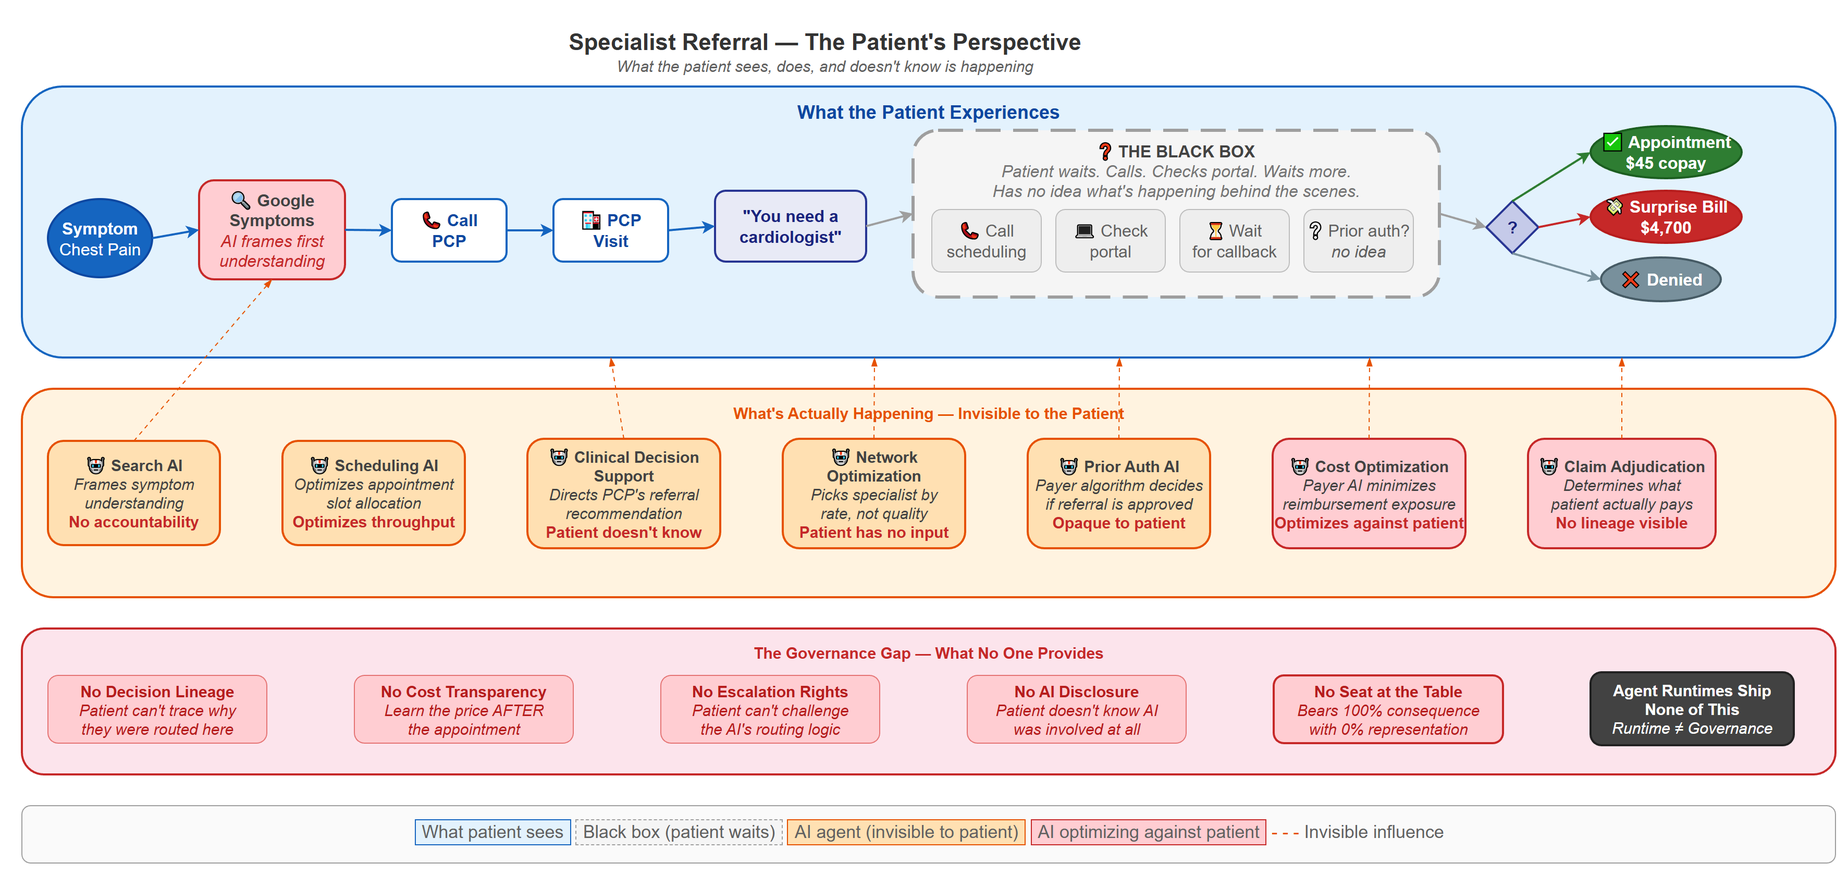
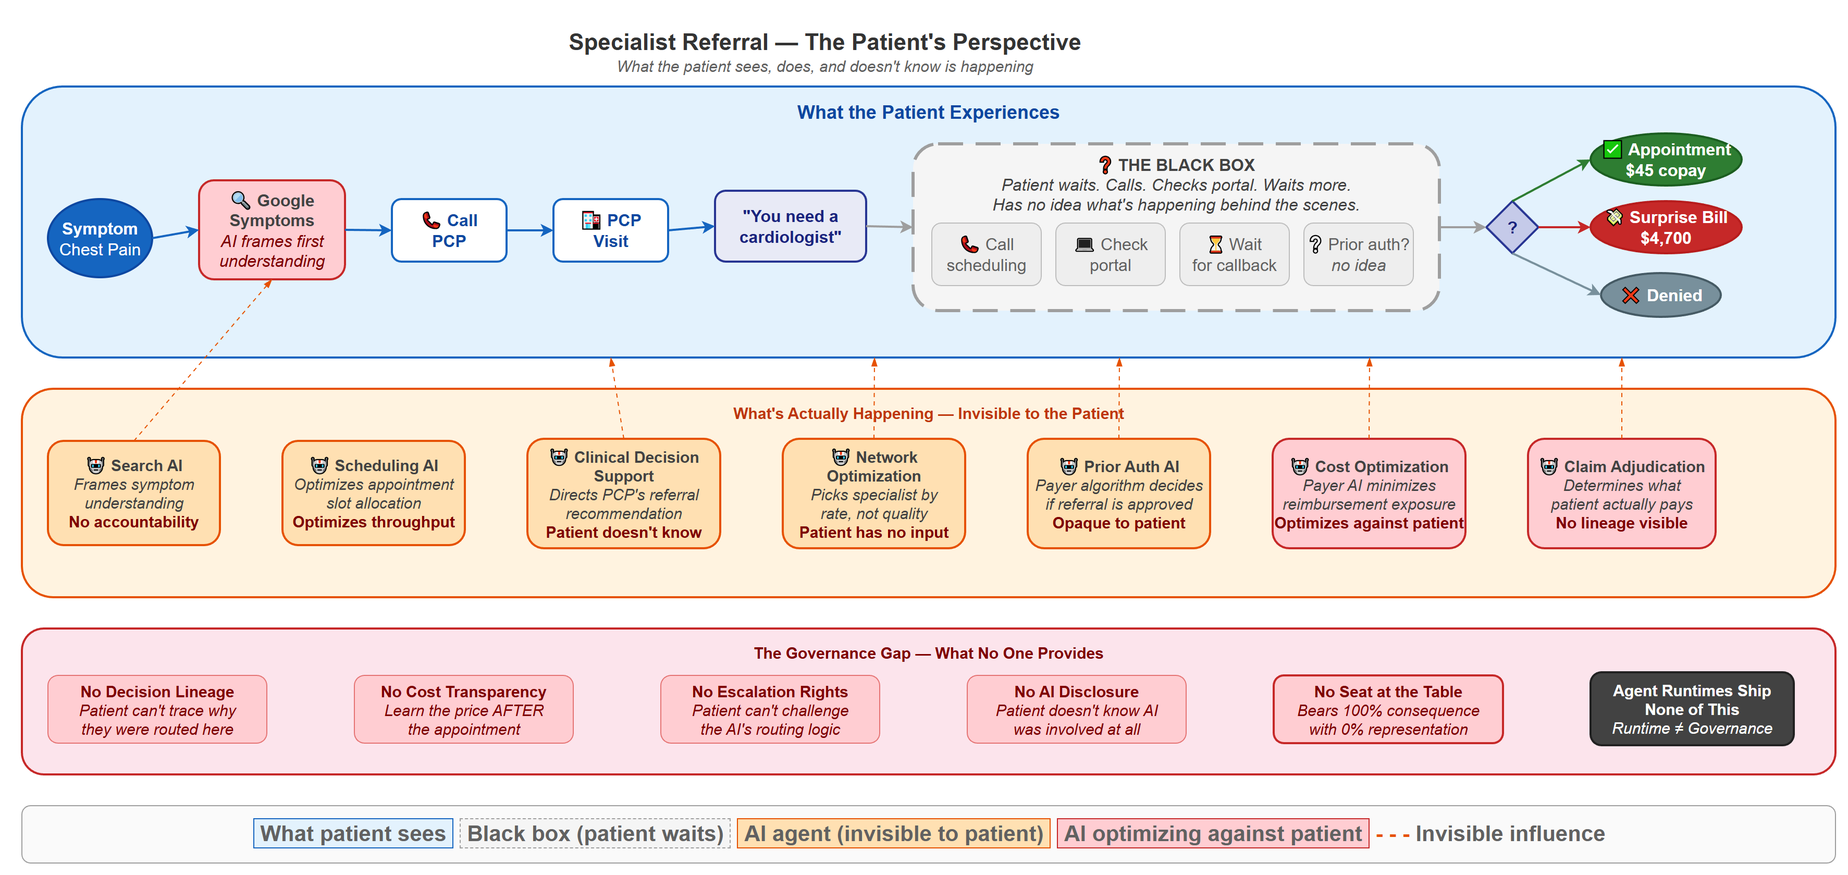
Update header image

diff --git a/docs/agentic/governance-gap.md b/docs/agentic/governance-gap.md
@@ -17,12 +17,6 @@ tags:
 
 ---
 
-![Specialist Referral — Network Navigation BPMN Model](../assets/images/network_navigation_agentic_sandwich.png)
-
-*Figure: The full BPMN 2.0 executable model for specialist referral network navigation — the "agentic sandwich" pattern. Left: a deterministic coverage gate the agent cannot override. Center: an ad-hoc subprocess where five AI agents and one human escalation path navigate the network autonomously. Right: a deterministic routing gate that settles the referral into one of three outcomes. This is what the process looks like when it's engineered for governance. Most deployed systems skip the model entirely.*
-
----
-
 ## When the Agent Gets It Wrong, the Patient Gets the Bill
 
 A patient's primary care physician orders a referral to a cardiologist. Between that order and the patient sitting in the specialist's office, six parties, three regulatory layers, and a maze of negotiated rates, benefit designs, and prior authorization requirements determine where that patient goes — and what they'll pay.
@@ -39,6 +33,20 @@ That's the governance gap. And every enterprise deploying autonomous agents toda
 
 ---
 
+## The Patient's Perspective
+
+Before the architecture, the experience. The governance gap doesn't live in diagrams — it lives in what happens to the person caught inside the process.
+
+![Specialist Referral — The Patient's Perspective](../assets/images/patient_referral_journey.png)
+
+*Figure: What the patient sees, does, and doesn't know is happening. The top layer (blue) is the patient's visible journey — symptom through black-box waiting to outcome. The middle layer (orange) shows the seven AI agents operating invisibly on the patient's referral. The bottom layer (red) names the governance gaps that leave the patient without recourse. Note the three possible outcomes: a \$45 copay, a \$4,700 surprise bill, or outright denial — and the patient has no visibility into which AI decisions determined their path.*
+
+The patient's experience is defined by what they *can't* see. They Google symptoms (an AI frames their understanding before they ever call the doctor). They get a referral ("you need a cardiologist"). Then they enter the **black box** — calling scheduling lines, checking portals, waiting for callbacks, with no idea whether prior authorization has been requested, approved, or denied. Behind that black box, seven AI agents are making decisions about their care, their cost, and their access. Two of those agents — Cost Optimization and Claim Adjudication — are explicitly optimizing *against* the patient's financial interest. The patient has no seat at the table, no escalation rights, and no AI disclosure.
+
+The patient bears 100% of the financial consequence and has 0% visibility into the AI decisions shaping their outcome. The party with the most at stake has the least information. Companion papers examine this same referral from the provider's perspective and the insurance company's perspective — each reveals a different set of AI touchpoints and a different set of governance questions that no current agent runtime answers.
+
+---
+
 ## The Patient's Journey
 
 The governance gap isn't abstract. It plays out in the process below — a specialist referral network navigation that touches every insured American and that almost nobody understands. The domain and its failure modes are real (see Appendix); the governed architecture is illustrative — designed to show what should exist, not what does.
@@ -48,6 +56,10 @@ The governance gap isn't abstract. It plays out in the process below — a speci
 *Figure: A patient referral navigated through the "agentic sandwich" — deterministic gates (blue) bracket an autonomous reasoning zone (amber) where five AI agents and one human escalation path coordinate the navigation. Three outcomes emerge on the right: approved in-network (\$45 copay), out-of-network exception with mandatory cost disclosure, or denied with appeal rights. The governance gap lives inside the agentic zone — where AI agents make decisions that determine the patient's financial outcome, and no current architecture makes those decisions auditable.*
 
 ### The Process: What You're Looking At
+
+![Specialist Referral — Network Navigation BPMN Model](../assets/images/network_navigation_agentic_sandwich.png)
+
+*Figure: The full BPMN 2.0 executable model for specialist referral network navigation — the "agentic sandwich" pattern. Left: a deterministic coverage gate the agent cannot override. Center: an ad-hoc subprocess where five AI agents and one human escalation path navigate the network autonomously. Right: a deterministic routing gate that settles the referral into one of three outcomes. This is what the process looks like when it's engineered for governance. Most deployed systems skip the model entirely.*
 
 Reading left to right: the process starts at **Referral Order Received** from the PCP. It passes through a **Coverage & Eligibility Verification** gateway — a deterministic gate that checks whether the patient has active coverage, whether the referral type requires authorization, and whether the benefit design (HMO, PPO, EPO, tiered network) permits self-referral or mandates PCP gatekeeping. This is a hard constraint. No agent overrides it.
 
@@ -133,13 +145,9 @@ Orchestrator (Camunda Zeebe) creates job: "network-navigation-agent"
 
 ### Where the Governance Gap Hits
 
-The architecture above shows the governed version — what *should* happen. Here's what happens today, when the same referral runs on an agent runtime *without* that governance substrate:
+The architecture above shows the governed version — what *should* happen. Here's what happens today, when the same referral runs on an agent runtime *without* that governance substrate.
 
-**The agent recommends an out-of-network specialist because of shorter wait times.** The patient sees the specialist, gets a bill for \$4,700 instead of \$45. The agent had good reasoning — shorter wait, higher quality score — but it didn't trace the cost transparency decision through the patient's specific benefit design. No lineage. No audit trail. No evidence that the patient was informed of the cost differential before the appointment was booked.
-
-A state insurance commissioner asks: *"Was the patient informed of the out-of-network cost before the appointment?"*
-
-Without a governance substrate, the answer is a three-week forensic investigation through log files. With seven-layer semantic lineage, the answer is a three-second query:
+Return to the referral that opened this paper — the agent that recommended Dr. Chen because of shorter wait times and a higher quality score. The patient got a \$4,700 bill. No lineage. No audit trail. The commissioner asks: *"Was the patient informed?"* With seven-layer semantic lineage, the answer is a three-second query:
 
 - **Layer 1 (Instance):** Navigation completed 2026-03-28T14:22, recommended Dr. Chen (out-of-network)
 - **Layer 2 (Class):** Network Optimization activity class shows OON recommendations have 34% patient complaint rate vs 2% for in-network — pattern should have triggered escalation
@@ -152,20 +160,6 @@ Without a governance substrate, the answer is a three-week forensic investigatio
 Every layer present. Every question answered. The system *knows* it made a mistake — and more importantly, it knows *why*, which means the activity class gets updated and the next navigation won't repeat it.
 
 That's the difference between an agent runtime and a governed architecture. The runtime executed perfectly. The governance substrate would have caught the error before the patient ever walked into the wrong office.
-
----
-
-## The Patient's Perspective
-
-The process above describes the technical architecture. But the governance gap doesn't live in architecture diagrams — it lives in the experience of the person caught inside the process.
-
-![Specialist Referral — The Patient's Perspective](../assets/images/patient_referral_journey.png)
-
-*Figure: What the patient sees, does, and doesn't know is happening. The top layer (blue) is the patient's visible journey — symptom through black-box waiting to outcome. The middle layer (orange) shows the seven AI agents operating invisibly on the patient's referral. The bottom layer (red) names the governance gaps that leave the patient without recourse. Note the three possible outcomes: a \$45 copay, a \$4,700 surprise bill, or outright denial — and the patient has no visibility into which AI decisions determined their path.*
-
-The patient's experience is defined by what they *can't* see. They Google symptoms (an AI frames their understanding before they ever call the doctor). They get a referral ("you need a cardiologist"). Then they enter the **black box** — calling scheduling lines, checking portals, waiting for callbacks, with no idea whether prior authorization has been requested, approved, or denied. Behind that black box, seven AI agents are making decisions about their care, their cost, and their access. Two of those agents — Cost Optimization and Claim Adjudication — are explicitly optimizing *against* the patient's financial interest. The patient has no seat at the table, no escalation rights, and no AI disclosure.
-
-The patient bears 100% of the financial consequence and has 0% visibility into the AI decisions shaping their outcome. The party with the most at stake has the least information. Companion papers examine this same referral from the provider's perspective and the insurance company's perspective — each reveals a different set of AI touchpoints and a different set of governance questions that no current agent runtime answers.
 
 ---
 
@@ -199,29 +193,9 @@ Five agents worked this referral — Network Optimization, Cost Transparency, Pr
 
 ## The Three Values Worth Preserving — and How to Encode Them
 
-The patient's journey reveals a governance gap — but it also reveals capabilities worth keeping. Three things matter regardless of which runtime or vendor owns the agent layer. The question is whether they require human consultants at partner rates, or whether they can be encoded architecturally.
+The governance gap creates dependency on external consultants — pattern libraries, compliance framing, integration architecture — but that dependency is architectural, not inherent. Three capabilities currently delivered at partner rates can be encoded: domain pattern libraries become learned process intelligence, compliance gatekeeping dissolves under seven-layer semantic lineage, and proprietary integration accelerators yield to a [governed agentic mesh](../agentic/agentic-agency-and-workflows.md) built on standard protocols. One capability genuinely can't be automated: **organizational change sponsorship** — the executive coalition-building and political navigation that determines whether any architecture gets deployed. The governance gap is an *architecture* gap, not a change management gap. Both matter. They're different disciplines.
 
-### 1. Domain Pattern Libraries → Learned Process Intelligence
-
-Consulting firms accumulate patterns from dozens of engagements: "In banking, this integration approach works; in healthcare, that compliance path succeeds." This knowledge is real and valuable.
-
-**Architectural replacement:** The autonomous orchestration generation framework I've developed replaces static pattern libraries with *learned* process intelligence. The system doesn't need a consultant to say "this sequence works" — it discovers effective patterns through process mining, scores them through ML, and composes new orchestrations from the learned library. Every execution makes the library better.
-
-### 2. Security and Compliance Framing → Semantic Lineage and Auditability
-
-The consulting firm's compliance value is translating platform capability into regulatory permission. They tell the CISO what's safe. They tell legal what's auditable.
-
-**Architectural replacement:** Seven-layer semantic lineage makes every agent decision self-auditing. When the compliance question changes from "is this platform safe?" to "can I trace every decision this platform makes through seven layers of context?" — the consulting firm's gatekeeping role dissolves. Visibility destroys dependency on external interpreters.
-
-### 3. Integration Architecture → Governed Agentic Mesh
-
-Consultants design how AI connects to enterprise systems. This is real engineering work — but it's also where consultants build their stickiest IP.
-
-**Architectural replacement:** The [Agentic Mesh](../agentic/agentic-agency-and-workflows.md) architecture uses BPMN as the deterministic spine, standard protocols (MCP) as the operational interface layer, and semantic carriers to preserve business meaning across process boundaries. The integration architecture isn't proprietary IP locked in a consultant's accelerator — it's an open, governed fabric the enterprise owns.
-
-### What Can't Be Automated
-
-One consulting capability genuinely can't be encoded: **organizational change sponsorship**. The executive coalition-building, political navigation, and institutional resistance management that determines whether any architecture actually gets deployed. That's a human and political problem, not an architectural one. It's worth naming explicitly: the governance gap is an *architecture* gap, not a change management gap. Both matter. They're different disciplines.
+*For the full treatment — including why this dependency is structural and how each architectural replacement works — see "Consulting Dependency as Architecture" (forthcoming).*
 
 ---
 
@@ -296,75 +270,13 @@ Note: The No Surprises Act caps some of this exposure but contains significant c
 
 ## Appendix B: The Agentic Sandwich — Anatomy of a Governance Pattern<sup>v</sup>
 
-The body of this paper introduces the agentic sandwich as a one-paragraph pattern. It deserves a fuller treatment — because the pattern explains both why most deployed agentic systems lack governance *and* what a governed alternative looks like.
-
----
-
-### What It Is
-
-The agentic sandwich is an architectural pattern that brackets an autonomous AI reasoning zone between two deterministic constraint layers:
+The agentic sandwich brackets an autonomous AI reasoning zone between two deterministic constraint layers — entry gates the agent cannot override, exit gates that enforce completion conditions, and a BPMN 2.0 ad-hoc subprocess that gives agents freedom to reason while the process engine owns the state.
 
 <img src="../assets/images/agentic_sandwich_pattern.png" alt="The Agentic Sandwich Pattern" width="420"/>
 
-The formal container is a **BPMN 2.0 ad-hoc subprocess** (ISO 19510). The tasks inside have no sequence-flow arrows connecting them. An orchestrating agent decides which to activate and in what order — but the *boundary* of the subprocess, its entry conditions, its exit conditions, and its completion criteria are all deterministic and engine-enforced. The agents own the reasoning. The process engine owns the state.
+The pattern emerged from a collision between two trajectories: agentic AI frameworks that assume unbounded autonomy, and regulated industries that require every consequential decision to be reconstructable after the fact. BPMN's ad-hoc subprocess — standardized in 2011, largely ignored by the AI community — was designed for exactly this problem. The sandwich didn't invent a new container. It recognized that the container already existed.
 
-This is what Bernd Ruecker calls the "deterministic spine" in *Practical Process Automation* and *Enterprise Process Orchestration* (O'Reilly) — the process engine as the source of truth for what has happened, what is happening, and what is allowed to happen next. The agentic sandwich extends that spine to encompass autonomous AI reasoning without surrendering governance.
-
----
-
-### How It Came to Be
-
-The pattern emerged from a collision between two trajectories:
-
-**Trajectory 1: Agentic AI frameworks assume unbounded autonomy.** LangChain, CrewAI, AutoGen, and NVIDIA's own NemoClaw/OpenClaw give agents broad freedom to reason, plan, select tools, and act. The agent loop — observe, think, act, repeat — is designed for open-ended problem-solving. This is powerful. It is also ungovernable in any domain where decisions have regulated consequences.
-
-As Chip Huyen documents in *AI Engineering* (O'Reilly, 2024), production AI systems fail not because the models are wrong but because the *systems around the models* lack the engineering discipline to constrain, monitor, and audit model behavior at scale. The agent runtime is necessary. It is not sufficient.
-
-Lakshmanan and Hapke's *Generative AI Design Patterns* (O'Reilly, 2025) catalogs the architectural patterns emerging across production deployments — including guardrails, routing, and constraint patterns that map directly to the sandwich's deterministic layers. The pattern is converging across independent practitioners.
-
-**Trajectory 2: Regulated industries require deterministic auditability.** Healthcare, financial services, and insurance operate under regimes (HIPAA, OCC, NAIC, CMS) that require every consequential decision to be reconstructable after the fact. "The AI decided" is not a compliant answer. The regulator needs to know *which* constraints were checked, *which* data informed the decision, *what* alternatives were considered, and *why* this outcome was selected.
-
-BPMN's ad-hoc subprocess — standardized in 2011, largely ignored by the AI community — was designed for exactly this problem: coordinated activities that cannot be pre-sequenced but must still execute within governed boundaries. The agentic sandwich didn't invent a new container. It recognized that the container already existed.
-
-Arsanjani and Bustos's *Agentic Architectural Patterns for Building Multi-Agent Systems* (Packt, 2026) identifies this same convergence — multi-agent coordination patterns that require both autonomy within the agent mesh and deterministic governance at the boundaries. The sandwich is one instantiation of that broader architectural requirement.
-
----
-
-### How It Behaves in Practice
-
-Walk through the referral navigation process in this paper:
-
-1. **Entry gate fires.** The process engine (Camunda/Zeebe) receives a referral order. The coverage eligibility service task executes — pure deterministic logic. Is the patient's coverage active? Does the benefit design permit self-referral or require PCP authorization? Is the referral type subject to prior authorization? These are boolean checks against structured data. No LLM. No reasoning. No override. If the gate fails, the process exits to a deterministic denial or hold path. The agent never activates.
-
-2. **Agentic zone opens.** The gate passes. The process engine instantiates the ad-hoc subprocess. Five AI agents become available — Network Optimization, Cost Transparency, Prior Authorization Preparation, Facility & Availability, and a human escalation path (Clinical Review Escalation). None of them are pre-sequenced. The orchestrating agent evaluates the referral context and decides: *which agents to activate, in what order, based on what the previous agents found.*
-
-   Maybe Network Optimization runs first and identifies three candidate specialists. Cost Transparency runs next and discovers one is out-of-network — triggering mandatory cost disclosure logic. Prior Authorization runs in parallel because the referral type requires it. The orchestrating agent adapts. If Cost Transparency returns a gap — no in-network specialist within 30 days — the orchestrator activates a different sequence. If confidence on the best match stays below threshold, the escalation path fires and a human reviewer enters.
-
-3. **Completion condition enforces.** The ad-hoc subprocess cannot exit until the process engine confirms that mandatory checks have completed: cost transparency verified, network status confirmed, prior authorization status resolved (approved, pending, or not required), and the orchestrating agent's confidence score meets the minimum threshold. This is not a suggestion. It is an engine-enforced gate. An agent that tries to exit early gets blocked.
-
-4. **Exit gate routes.** The structured output from the agentic zone feeds a deterministic exclusive gateway. Three paths: approved in-network (\$45 copay), out-of-network exception with mandatory cost disclosure, or denied with appeal rights. Every path is named. Every path has defined downstream behavior. No ambiguous exits.
-
-Albada's *Building Applications with AI Agents* (O'Reilly, 2025) describes the agent boundary problem this solves: agents that can reason freely but produce structured, predictable outputs at their boundaries — what he frames as the interface contract between autonomous reasoning and system-level governance.
-
----
-
-### What Fixes Look Like
-
-Most deployed agentic systems today skip the sandwich entirely. The agent receives a request, reasons over it, and returns an answer. No entry gate. No exit gate. No completion condition. No audit trail linking the answer to the constraints that should have bounded it. The fixes are architectural, not algorithmic:
-
-**1. Use BPMN ad-hoc subprocesses as the formal container.** The process engine — not the agent framework — owns the lifecycle. The engine knows when the zone opened, which tasks activated, what each returned, when the zone closed, and which exit path was taken. This is the audit trail that regulators require and that pure agent frameworks cannot produce.
-
-**2. Define deterministic gates as hard constraints.** Entry and exit gates execute deterministic logic — rules engines, policy checks, eligibility verification — that no agent can override, no matter how persuasive the LLM's reasoning. Ruecker's "deterministic spine" principle: the orchestration engine enforces what must be true, and agents operate within what's left.
-
-**3. Implement three-return contracts for every agent.** Every agent inside the zone returns three things: (a) structured data (the machine-readable result), (b) human-readable reasoning (the explanation a regulator or patient can understand), and (c) a next-task recommendation (what the orchestrator should consider activating next). This contract, proven in the [STEMI detection implementation](../agentic/agentic-agency-and-workflows.md), makes every agent decision self-documenting.
-
-**4. Enforce confidence-gated escalation.** When the orchestrating agent's confidence stays below a defined threshold after all available assessments, the architecture — not the agent — forces human-in-the-loop review. The agent doesn't decide whether it's confident enough. The process engine evaluates the confidence score against a deterministic threshold and routes accordingly.
-
-**5. Layer semantic lineage through the zone.** Every decision inside the agentic zone gets tagged with its seven-layer semantic context: business process, domain ontology, regulatory rule, data source, transformation, ML model, and agent reasoning. The seven-layer lineage architecture makes the entire zone queryable after the fact — not through log-file forensics, but through structured semantic queries.
-
-**6. Separate the governance substrate from the agent framework.** The process engine (Camunda/Zeebe) provides the governance spine. The agent framework (NemoClaw, LangChain, CrewAI) provides the reasoning capability. These are complementary, not competitive. The sandwich is the architectural seam where they meet — and where most current deployments have a gap.
-
-The pattern is not theoretical. It runs in production in [emergency medicine](../agentic/agentic-agency-and-workflows.md), where the stakes — STEMI detection, cath lab activation, ALS intercept — are higher than insurance navigation. If the sandwich works for life-safety, it works for referral routing. The question is not whether the pattern scales. The question is why most enterprises skip it.
+*For the full treatment — what the pattern is, how it emerged, how it behaves in practice, and what architectural fixes look like — see "The Agentic Sandwich — Anatomy of a Governance Pattern" (forthcoming).*
 
 ---
 
